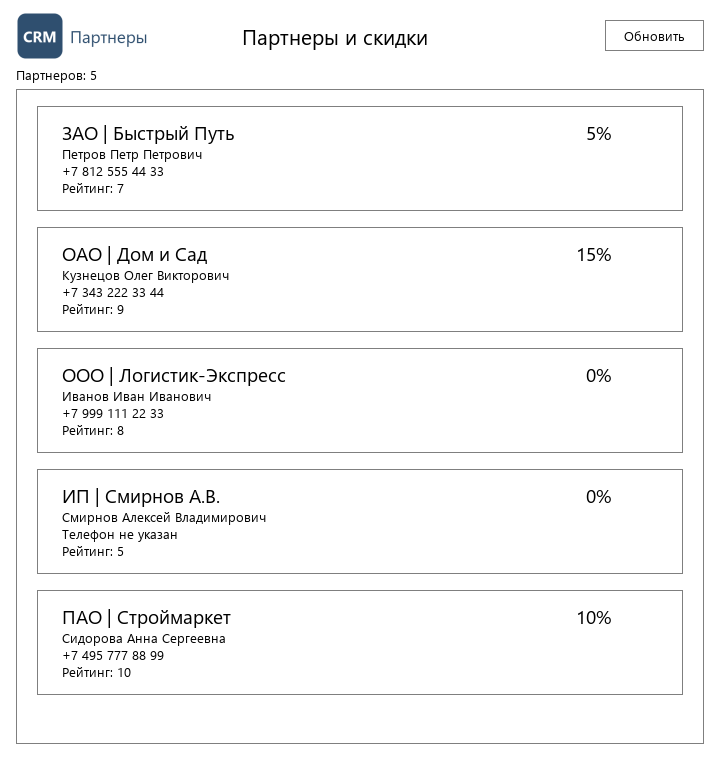
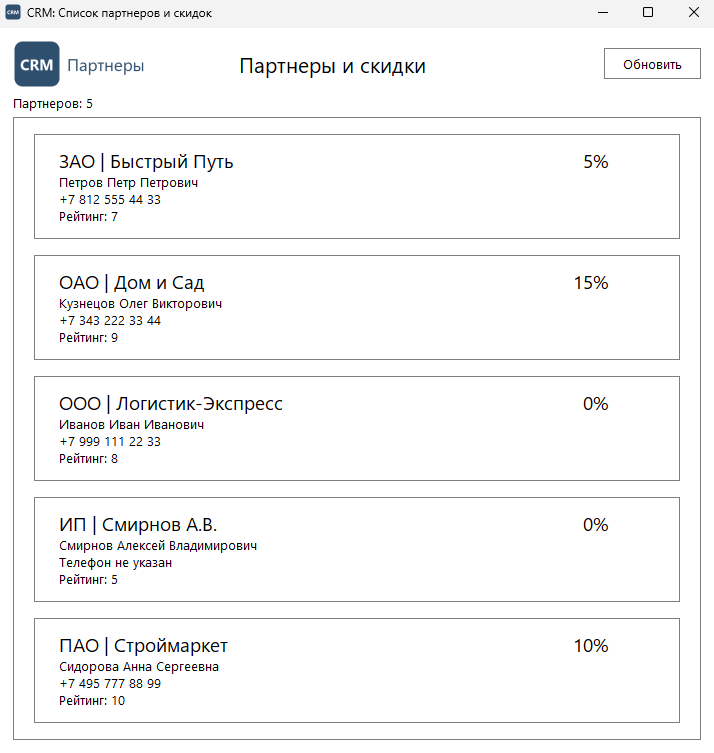
Снимок настоящего окна с заголовком и иконкой
Задание 3 требует показать их, а прежний снимок был без рамки окна.

diff --git a/2026-09-14-partner-discounts/README.md b/2026-09-14-partner-discounts/README.md
@@ -103,9 +103,10 @@ python -m coverage report
 Логотип и иконка пока временные. Настоящие кладутся поверх `logo.png` и
 `icon.png` с теми же именами, код менять не нужно.
 
-![Окно с данными из тестовой базы](screenshots/app-window.png)
+![Окно с данными из базы](screenshots/app-window.png)
 
-Снимок отрисован самой программой по тестовой базе, поэтому без рамки окна.
+Снимок запущенного приложения на базе `partner_discounts`: в заголовке окна
+название и иконка, в списке все пять партнеров со скидками.
 
 ## Задание 4. Наполнение, отладка и проверка
 
